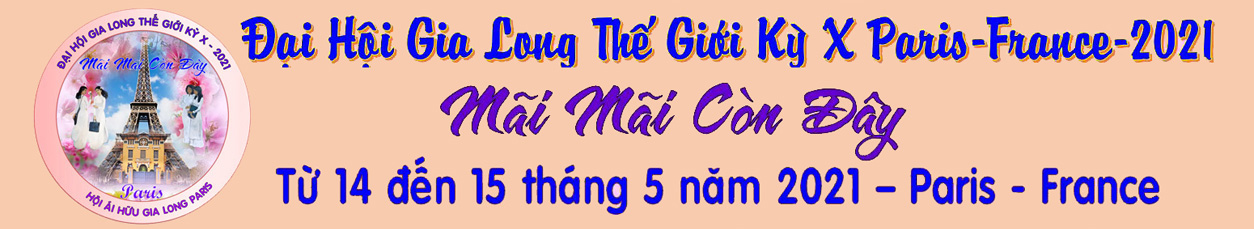
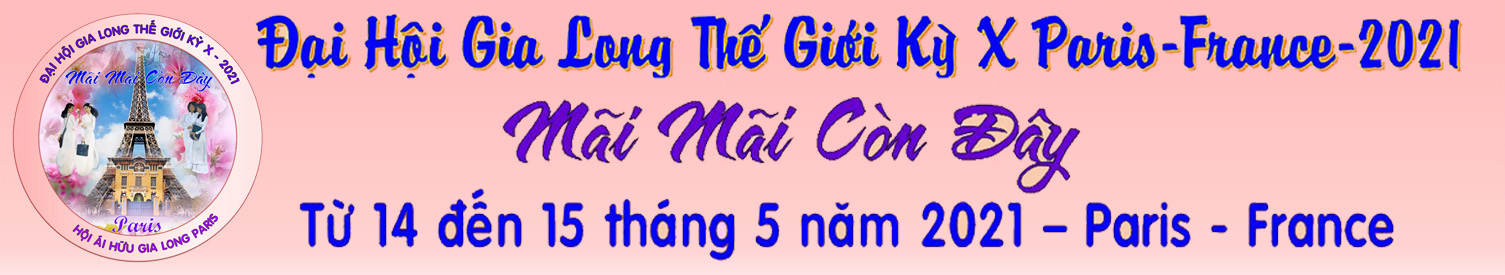
Fond

diff --git a/site.css b/site.css
@@ -1,12 +1,14 @@
 body{
-  background-color: #fbefe1;
+  background-color: #feebe1;
 }
 .banner{
-  background-color: #f8cbae;
+  background-color: #ffe1e1;
+  background-image: url(images/image_de_fond.jpg);
   margin: auto;
 }
 .banner1{
-  background-color: #fbefe1;
+  background-color: #ffe1e1;
+  background-image: url(images/image_de_fond.jpg);
   margin: auto;
 }
 .responsiveImage{
@@ -71,7 +73,7 @@ body{
 }
 .jumbotron{
   padding-top: 0.50%;
-  background-color: #fbefe1;
+  background-color: #feebe1;
 }
 .jumbotron1{
   padding-top: 1%;
